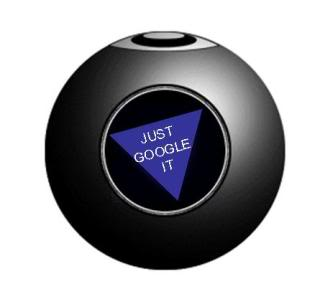
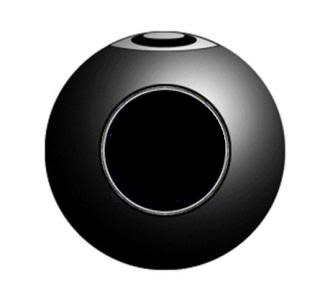
Img change

Changed region(s): [[0.3438, 0.3612, 0.6562, 0.6923]]

diff --git a/magicscript.js b/magicscript.js
@@ -27,7 +27,7 @@ function shakemagic(){
 	if(img == "front"){
 		
 		//grab image by id
-		document.getElementById("magicball").src= "r/magicgoogle8ball1.jpg";
+		document.getElementById("magicball").src= "r/magicgoogle8ballback1.jpg";
 		
 		//grab the results
 		document.getElementById("result").innerHTML=list[random()];
@@ -37,7 +37,7 @@ function shakemagic(){
 	//reset
 	else{
 	//grab image by id
-		document.getElementById("magicball").src= "r/magic8ball.png";
+		document.getElementById("magicball").src= "r/magicgoogle8ball1.jpg";
 		
 		//grab the results
 		document.getElementById("result").innerHTML="Click the magic 8 ball to shake again";

diff --git a/magic.html b/magic.html
@@ -21,7 +21,7 @@
 			</a>
 		</nav>
 		<section>
-			<img id="magicball" src="r/magic8ball.png" onclick="shakemagic();" />
+			<img id="magicball" src="r/magicgoogle8ball1.jpg" onclick="shakemagic();" />
 			<p id="result">
 				Click the magic 8 ball to shake
 			</p>
